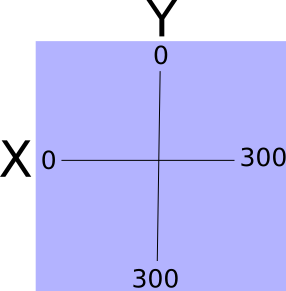
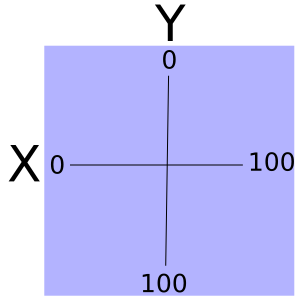
Finish up basic shape positioning

Changed region(s): [[0.0, 0.0, 1.0, 1.0]]

diff --git a/UsingSvgs.md b/UsingSvgs.md
@@ -2,12 +2,18 @@
 Scalable Vector Graphics are not only 'Scalable', they are powerful. Why are they powerful? They are defined in XML and as such every part is addressable through CSS an JS. This means that we can take a single SVG and not only morph it's size, but everything about it. In this tutorial, I will not get remotely close to the endless capabilities of SVGs, but hope inspire further investigation and creativity on your part by showing how easy they are to use. See [MDN](https://developer.mozilla.org/en-US/docs/Web/SVG/Element) to explore vastness of this useful technology.
 ##The Canvas
 You may be familiar with the canvas element in HTML5. I like to see the SVG element in similar fasion. The SVG element is filled with other elements, that each can be manipulated together or individually providing an endless palette of possibilities.
-Setting up that canvas is as simple as this ```<svg width="300" height="300"></svg>```. Just like that we have an 300X300px area to place a multitude of graphical interaction. We can add an id address it with JavaScript, and we can give it a class to manipulate it with CSS. ```<svg id="mySvg" class="svgClass" width="300" height="300"></svg>```. And of course we can do the same with the elements we place inside.
+Setting up that canvas is as simple as this ```<svg width="100" height="100"></svg>```. Just like that we have an 100X100px area to place a multitude of graphical interaction. We can add an id address it with JavaScript, and we can give it a class to manipulate it with CSS. ```<svg id="mySvg" class="svgClass" width="100" height="100"></svg>```. And of course we can do the same with the elements we place inside.
 ###Sizing Things Up
-The figure below depicts the coordinates of a 300X300 svg. We use this system for placing our inner elements.
+The figure below depicts the coordinates of a 100X100 svg. We use this system for placing our inner elements.
 
 ![image of svg coordinates](svgArea.svg.png)
 
-This next figure shows a rectangle defined within the SVG. As you can see, the x and y attributes of the rectangle place the upper left corner at the intersection of 10,10 inside the SVG. A circle by contrast
+This next figure shows a rectangle defined within the SVG. As you can see, the x and y attributes of the rectangle refer to where the upper left corner of the rectangle will be placed within the SVG. On the other hand, the cx and cy attributes of a circle refer to where the center of the circle will be placed within the SVG.
 
-![image inner element coordinates alignment](svgXY.svg.png)
+![image of inner element coordinates alignment](svgXY.svg.png)
+
+cy and cx for an ellipsis works the same as that of a circle. The circle, ellipsis, and rectangle fall into the category of basic shapes. Their are three more basic shapes that we can use; line, polyline, and polygon. Their orientation within the SVG is illustrated below.
+
+![image of line, polyline, and polygon alignment](svgLines.svg.png)
+
+The line attributes are similar to the previous shapes. It uses x1 and y1 for the start point and x2 and y2 for the end point. The polyline coordinates are consolidated into one attribute called **points** containing all the points where the line changes direction. Each point is represented as x,y with a space separating each one. The polygon is intended to be filled in like rect, circle and ellipsis so while it uses the same attribute as polyline, the last point in the attribute is automatically connected to the first point. Because of this you can get some interesting results with this shape. A simple triangle is all we illustrate here, but I encourage you to experiment around with the polygon.
